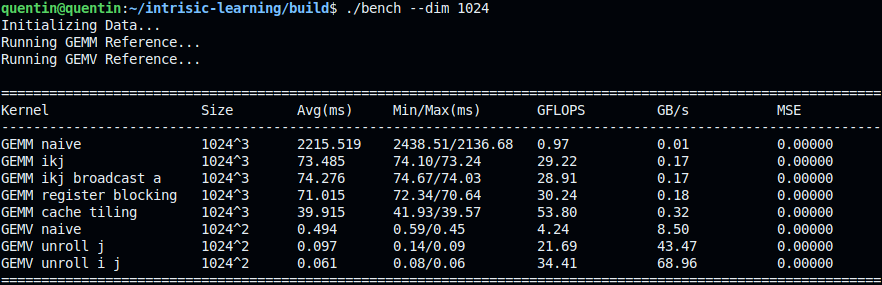
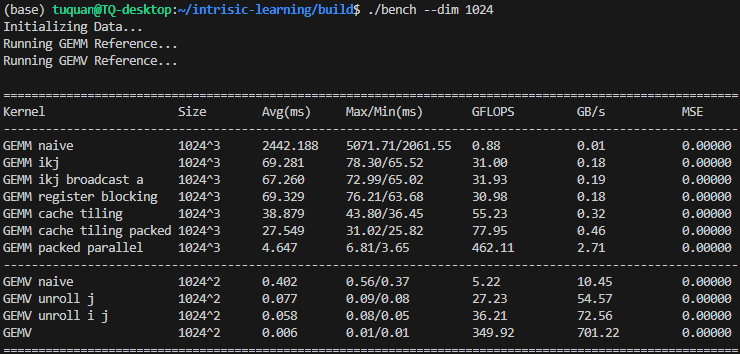
add packed and parallel gemm

Changed region(s): [[0.0, 0.2526, 1.0, 1.0], [0.0, 0.0, 0.6838, 0.2246]]

diff --git a/src/lib/gemm.cpp b/src/lib/gemm.cpp
@@ -3,8 +3,7 @@
 
 #include <immintrin.h>
 
-const int CACHE_TILE_SIZE = 256;
-const int MC = CACHE_TILE_SIZE, NC = CACHE_TILE_SIZE, KC = CACHE_TILE_SIZE;
+const int MC = 256, NC = 64, KC = 256;
 
 void naive_gemm(const Tensor2D &A, const Tensor2D &B, Tensor2D &C)
 {
@@ -312,6 +311,282 @@ void cache_tiling_gemm(const Tensor2D &A, const Tensor2D &B, Tensor2D &C)
     }
 }
 
-void gemm(const Tensor2D &A, const Tensor2D &B, Tensor2D &C)
+void pack_B(int k_min, int k_max, int j_min, int j_max, int B_cols, const float *b_ptr, float *packed_buffer)
 {
+    float *pack_iter = packed_buffer;
+
+    for (int j = j_min; j < j_max; j += 8)
+    {
+        for (int k = k_min; k < k_max; ++k)
+        {
+            const float *b_row_ptr = b_ptr + k * B_cols + j;
+
+            if (j + 8 <= j_max)
+            {
+                _mm256_store_ps(pack_iter, _mm256_loadu_ps(b_row_ptr));
+            }
+            else
+            {
+                for (int n = 0; n < 8; ++n)
+                {
+                    if (j + n < j_max)
+                        pack_iter[n] = b_row_ptr[n];
+                    else
+                        pack_iter[n] = 0.0f;
+                }
+            }
+            pack_iter += 8;
+        }
+    }
+}
+
+void cache_tiling_packed_gemm(const Tensor2D &A, const Tensor2D &B, Tensor2D &C)
+{
+    int A_rows = A.rows();
+    int B_cols = B.cols();
+    int A_cols = A.cols();
+
+    const float *a_ptr = A.data().get();
+    const float *b_ptr = B.data().get();
+    float *c_ptr = C.data().get();
+
+    // shape check
+    if (C.rows() != A_rows || C.cols() != B_cols)
+    {
+        throw std::invalid_argument("C rows and cols must match A rows and B cols, respectively");
+    }
+
+    std::fill(c_ptr, c_ptr + (A_rows * B_cols), 0.0f);
+
+    alignas(32) float packed_B[NC * KC];
+
+    for (int jc = 0; jc < B_cols; jc += NC)
+    {
+        int j_min = std::min(jc + NC, B_cols);
+        for (int kc = 0; kc < A_cols; kc += KC)
+        {
+            int k_min = std::min(kc + KC, A_cols);
+
+            pack_B(kc, k_min, jc, j_min, B_cols, b_ptr, packed_B);
+
+            for (int ic = 0; ic < A_rows; ic += MC)
+            {
+                int i_min = std::min(ic + MC, A_rows);
+
+                int i = ic;
+                for (; i <= i_min - 4; i += 4)
+                {
+                    const float *b_pack_ptr = packed_B;
+
+                    const float *a_row_ptr_0 = &a_ptr[(i + 0) * A_cols];
+                    const float *a_row_ptr_1 = &a_ptr[(i + 1) * A_cols];
+                    const float *a_row_ptr_2 = &a_ptr[(i + 2) * A_cols];
+                    const float *a_row_ptr_3 = &a_ptr[(i + 3) * A_cols];
+
+                    int j = jc;
+                    for (; j <= j_min - 8; j += 8)
+                    {
+                        __m256 acc0 = _mm256_loadu_ps(&c_ptr[(i + 0) * B_cols + j]);
+                        __m256 acc1 = _mm256_loadu_ps(&c_ptr[(i + 1) * B_cols + j]);
+                        __m256 acc2 = _mm256_loadu_ps(&c_ptr[(i + 2) * B_cols + j]);
+                        __m256 acc3 = _mm256_loadu_ps(&c_ptr[(i + 3) * B_cols + j]);
+
+                        for (int k = kc; k < k_min; ++k)
+                        {
+                            __m256 v_a0 = _mm256_set1_ps(a_row_ptr_0[k]);
+                            __m256 v_a1 = _mm256_set1_ps(a_row_ptr_1[k]);
+                            __m256 v_a2 = _mm256_set1_ps(a_row_ptr_2[k]);
+                            __m256 v_a3 = _mm256_set1_ps(a_row_ptr_3[k]);
+
+                            __m256 v_b = _mm256_load_ps(b_pack_ptr);
+                            b_pack_ptr += 8;
+
+                            acc0 = _mm256_fmadd_ps(v_a0, v_b, acc0);
+                            acc1 = _mm256_fmadd_ps(v_a1, v_b, acc1);
+                            acc2 = _mm256_fmadd_ps(v_a2, v_b, acc2);
+                            acc3 = _mm256_fmadd_ps(v_a3, v_b, acc3);
+                        }
+
+                        _mm256_storeu_ps(&c_ptr[(i + 0) * B_cols + j], acc0);
+                        _mm256_storeu_ps(&c_ptr[(i + 1) * B_cols + j], acc1);
+                        _mm256_storeu_ps(&c_ptr[(i + 2) * B_cols + j], acc2);
+                        _mm256_storeu_ps(&c_ptr[(i + 3) * B_cols + j], acc3);
+                    }
+
+                    for (; j < j_min; ++j)
+                    {
+                        float sum0 = 0.0f, sum1 = 0.0f, sum2 = 0.0f, sum3 = 0.0f;
+                        for (int k = kc; k < k_min; ++k)
+                        {
+                            sum0 += a_row_ptr_0[k] * b_ptr[k * B_cols + j];
+                            sum1 += a_row_ptr_1[k] * b_ptr[k * B_cols + j];
+                            sum2 += a_row_ptr_2[k] * b_ptr[k * B_cols + j];
+                            sum3 += a_row_ptr_3[k] * b_ptr[k * B_cols + j];
+                        }
+                        c_ptr[(i + 0) * B_cols + j] += sum0;
+                        c_ptr[(i + 1) * B_cols + j] += sum1;
+                        c_ptr[(i + 2) * B_cols + j] += sum2;
+                        c_ptr[(i + 3) * B_cols + j] += sum3;
+                    }
+                }
+
+                for (; i < i_min; ++i)
+                {
+                    const float *a_row_ptr = &a_ptr[i * A_cols];
+                    const float *b_pack_ptr = packed_B;
+                    float *c_row_ptr = &c_ptr[i * B_cols];
+
+                    int j = jc;
+                    for (; j <= j_min - 8; j += 8)
+                    {
+                        __m256 v_c = _mm256_loadu_ps(&c_row_ptr[j]);
+                        for (int k = kc; k < k_min; ++k)
+                        {
+                            __m256 v_a = _mm256_set1_ps(a_row_ptr[k]);
+                            __m256 v_b = _mm256_load_ps(b_pack_ptr);
+                            b_pack_ptr += 8;
+                            v_c = _mm256_fmadd_ps(v_a, v_b, v_c);
+                        }
+                        _mm256_storeu_ps(&c_row_ptr[j], v_c);
+                    }
+
+                    for (; j < j_min; ++j)
+                    {
+                        float sum = 0.0f;
+                        for (int k = kc; k < k_min; ++k)
+                        {
+                            sum += a_row_ptr[k] * b_ptr[k * B_cols + j];
+                        }
+                        c_row_ptr[j] += sum;
+                    }
+                }
+            }
+        }
+    }
+}
+
+void packed_parallel_gemm(const Tensor2D &A, const Tensor2D &B, Tensor2D &C)
+{
+    int A_rows = A.rows();
+    int B_cols = B.cols();
+    int A_cols = A.cols();
+
+    const float *a_ptr = A.data().get();
+    const float *b_ptr = B.data().get();
+    float *c_ptr = C.data().get();
+
+    // shape check
+    if (C.rows() != A_rows || C.cols() != B_cols)
+    {
+        throw std::invalid_argument("C rows and cols must match A rows and B cols, respectively");
+    }
+
+    std::fill(c_ptr, c_ptr + (A_rows * B_cols), 0.0f);
+
+#pragma omp parallel for
+    for (int jc = 0; jc < B_cols; jc += NC)
+    {
+        alignas(32) float packed_B[NC * KC];
+
+        int j_min = std::min(jc + NC, B_cols);
+        for (int kc = 0; kc < A_cols; kc += KC)
+        {
+            int k_min = std::min(kc + KC, A_cols);
+
+            pack_B(kc, k_min, jc, j_min, B_cols, b_ptr, packed_B);
+
+            for (int ic = 0; ic < A_rows; ic += MC)
+            {
+                int i_min = std::min(ic + MC, A_rows);
+
+                int i = ic;
+                for (; i <= i_min - 4; i += 4)
+                {
+                    const float *b_pack_ptr = packed_B;
+
+                    const float *a_row_ptr_0 = &a_ptr[(i + 0) * A_cols];
+                    const float *a_row_ptr_1 = &a_ptr[(i + 1) * A_cols];
+                    const float *a_row_ptr_2 = &a_ptr[(i + 2) * A_cols];
+                    const float *a_row_ptr_3 = &a_ptr[(i + 3) * A_cols];
+
+                    int j = jc;
+                    for (; j <= j_min - 8; j += 8)
+                    {
+                        __m256 acc0 = _mm256_loadu_ps(&c_ptr[(i + 0) * B_cols + j]);
+                        __m256 acc1 = _mm256_loadu_ps(&c_ptr[(i + 1) * B_cols + j]);
+                        __m256 acc2 = _mm256_loadu_ps(&c_ptr[(i + 2) * B_cols + j]);
+                        __m256 acc3 = _mm256_loadu_ps(&c_ptr[(i + 3) * B_cols + j]);
+
+                        for (int k = kc; k < k_min; ++k)
+                        {
+                            __m256 v_a0 = _mm256_set1_ps(a_row_ptr_0[k]);
+                            __m256 v_a1 = _mm256_set1_ps(a_row_ptr_1[k]);
+                            __m256 v_a2 = _mm256_set1_ps(a_row_ptr_2[k]);
+                            __m256 v_a3 = _mm256_set1_ps(a_row_ptr_3[k]);
+
+                            __m256 v_b = _mm256_load_ps(b_pack_ptr);
+                            b_pack_ptr += 8;
+
+                            acc0 = _mm256_fmadd_ps(v_a0, v_b, acc0);
+                            acc1 = _mm256_fmadd_ps(v_a1, v_b, acc1);
+                            acc2 = _mm256_fmadd_ps(v_a2, v_b, acc2);
+                            acc3 = _mm256_fmadd_ps(v_a3, v_b, acc3);
+                        }
+
+                        _mm256_storeu_ps(&c_ptr[(i + 0) * B_cols + j], acc0);
+                        _mm256_storeu_ps(&c_ptr[(i + 1) * B_cols + j], acc1);
+                        _mm256_storeu_ps(&c_ptr[(i + 2) * B_cols + j], acc2);
+                        _mm256_storeu_ps(&c_ptr[(i + 3) * B_cols + j], acc3);
+                    }
+
+                    for (; j < j_min; ++j)
+                    {
+                        float sum0 = 0.0f, sum1 = 0.0f, sum2 = 0.0f, sum3 = 0.0f;
+                        for (int k = kc; k < k_min; ++k)
+                        {
+                            sum0 += a_row_ptr_0[k] * b_ptr[k * B_cols + j];
+                            sum1 += a_row_ptr_1[k] * b_ptr[k * B_cols + j];
+                            sum2 += a_row_ptr_2[k] * b_ptr[k * B_cols + j];
+                            sum3 += a_row_ptr_3[k] * b_ptr[k * B_cols + j];
+                        }
+                        c_ptr[(i + 0) * B_cols + j] += sum0;
+                        c_ptr[(i + 1) * B_cols + j] += sum1;
+                        c_ptr[(i + 2) * B_cols + j] += sum2;
+                        c_ptr[(i + 3) * B_cols + j] += sum3;
+                    }
+                }
+
+                for (; i < i_min; ++i)
+                {
+                    const float *a_row_ptr = &a_ptr[i * A_cols];
+                    const float *b_pack_ptr = packed_B;
+                    float *c_row_ptr = &c_ptr[i * B_cols];
+
+                    int j = jc;
+                    for (; j <= j_min - 8; j += 8)
+                    {
+                        __m256 v_c = _mm256_loadu_ps(&c_row_ptr[j]);
+                        for (int k = kc; k < k_min; ++k)
+                        {
+                            __m256 v_a = _mm256_set1_ps(a_row_ptr[k]);
+                            __m256 v_b = _mm256_load_ps(b_pack_ptr);
+                            b_pack_ptr += 8;
+                            v_c = _mm256_fmadd_ps(v_a, v_b, v_c);
+                        }
+                        _mm256_storeu_ps(&c_row_ptr[j], v_c);
+                    }
+
+                    for (; j < j_min; ++j)
+                    {
+                        float sum = 0.0f;
+                        for (int k = kc; k < k_min; ++k)
+                        {
+                            sum += a_row_ptr[k] * b_ptr[k * B_cols + j];
+                        }
+                        c_row_ptr[j] += sum;
+                    }
+                }
+            }
+        }
+    }
 }

diff --git a/src/main.cpp b/src/main.cpp
@@ -43,23 +43,26 @@ int main(int argc, char **argv)
 
     auto gemm_load = Workload::gemm_f32(M, N, K);
 
-    // results.push_back(run_benchmark("GEMM naive", dim, "gemm",
-    //                                 naive_gemm, gemm_load.first, gemm_load.second, C_ref, C_out, A, B));
+    results.push_back(run_benchmark("GEMM naive", dim, "gemm",
+                                    naive_gemm, gemm_load.first, gemm_load.second, C_ref, C_out, A, B));
 
-    // results.push_back(run_benchmark("GEMM ikj", dim, "gemm",
-    //                                 ikj_gemm, gemm_load.first, gemm_load.second, C_ref, C_out, A, B));
+    results.push_back(run_benchmark("GEMM ikj", dim, "gemm",
+                                    ikj_gemm, gemm_load.first, gemm_load.second, C_ref, C_out, A, B));
 
-    // results.push_back(run_benchmark("GEMM ikj broadcast a", dim, "gemm",
-    //                                 ikj_broadcast_a_gemm, gemm_load.first, gemm_load.second, C_ref, C_out, A, B));
+    results.push_back(run_benchmark("GEMM ikj broadcast a", dim, "gemm",
+                                    ikj_broadcast_a_gemm, gemm_load.first, gemm_load.second, C_ref, C_out, A, B));
 
-    // results.push_back(run_benchmark("GEMM register blocking", dim, "gemm",
-    //                                 register_blocking_gemm, gemm_load.first, gemm_load.second, C_ref, C_out, A, B));
+    results.push_back(run_benchmark("GEMM register blocking", dim, "gemm",
+                                    register_blocking_gemm, gemm_load.first, gemm_load.second, C_ref, C_out, A, B));
 
-    // results.push_back(run_benchmark("GEMM cache tiling", dim, "gemm",
-    //                                 cache_tiling_gemm, gemm_load.first, gemm_load.second, C_ref, C_out, A, B));
+    results.push_back(run_benchmark("GEMM cache tiling", dim, "gemm",
+                                    cache_tiling_gemm, gemm_load.first, gemm_load.second, C_ref, C_out, A, B));
 
-    results.push_back(run_benchmark("GEMM", dim, "gemm",
-                                    gemm, gemm_load.first, gemm_load.second, C_ref, C_out, A, B));
+    results.push_back(run_benchmark("GEMM cache tiling packed", dim, "gemm",
+                                    cache_tiling_packed_gemm, gemm_load.first, gemm_load.second, C_ref, C_out, A, B));
+
+    results.push_back(run_benchmark("GEMM packed parallel", dim, "gemm",
+                                    packed_parallel_gemm, gemm_load.first, gemm_load.second, C_ref, C_out, A, B));
 
     // GEMV
     std::cout << "Running GEMV Reference..." << std::endl;
@@ -74,14 +77,14 @@ int main(int argc, char **argv)
 
     auto gemv_load = Workload::gemv_f32(M, N);
 
-    // results.push_back(run_benchmark("GEMV naive", dim, "gemv",
-    //                                 naive_gemv, gemv_load.first, gemv_load.second, y_ref, y_out, W, x));
+    results.push_back(run_benchmark("GEMV naive", dim, "gemv",
+                                    naive_gemv, gemv_load.first, gemv_load.second, y_ref, y_out, W, x));
 
-    // results.push_back(run_benchmark("GEMV unroll j", dim, "gemv",
-    //                                 unroll_j_gemv, gemv_load.first, gemv_load.second, y_ref, y_out, W, x));
+    results.push_back(run_benchmark("GEMV unroll j", dim, "gemv",
+                                    unroll_j_gemv, gemv_load.first, gemv_load.second, y_ref, y_out, W, x));
 
-    // results.push_back(run_benchmark("GEMV unroll i j", dim, "gemv",
-    //                                 unroll_i_j_gemv, gemv_load.first, gemv_load.second, y_ref, y_out, W, x));
+    results.push_back(run_benchmark("GEMV unroll i j", dim, "gemv",
+                                    unroll_i_j_gemv, gemv_load.first, gemv_load.second, y_ref, y_out, W, x));
 
     results.push_back(run_benchmark("GEMV", dim, "gemv",
                                     gemv, gemv_load.first, gemv_load.second, y_ref, y_out, W, x));

diff --git a/src/lib/gemm.h b/src/lib/gemm.h
@@ -7,4 +7,5 @@ void ikj_gemm(const Tensor2D &A, const Tensor2D &B, Tensor2D &C);
 void ikj_broadcast_a_gemm(const Tensor2D &A, const Tensor2D &B, Tensor2D &C);
 void register_blocking_gemm(const Tensor2D &A, const Tensor2D &B, Tensor2D &C);
 void cache_tiling_gemm(const Tensor2D &A, const Tensor2D &B, Tensor2D &C);
-void gemm(const Tensor2D &A, const Tensor2D &B, Tensor2D &C);
+void cache_tiling_packed_gemm(const Tensor2D &A, const Tensor2D &B, Tensor2D &C);
+void packed_parallel_gemm(const Tensor2D &A, const Tensor2D &B, Tensor2D &C);

diff --git a/src/bench/bench.cpp b/src/bench/bench.cpp
@@ -33,7 +33,7 @@ void print_report(const std::vector<BenchmarkResult> &results)
               << std::setw(25) << "Kernel"
               << std::setw(12) << "Size"
               << std::setw(12) << "Avg(ms)"
-              << std::setw(18) << "Min/Max(ms)"
+              << std::setw(18) << "Max/Min(ms)"
               << std::setw(15) << "GFLOPS"
               << std::setw(15) << "GB/s"
               << std::setw(12) << "MSE" << "\n";

diff --git a/doc/lib/gemm.md b/doc/lib/gemm.md
@@ -16,5 +16,7 @@
 5. cache_tiling_gemm:
 - The register_blocking_gemm still accesses `B` across the `k` dimension from widely separated memory locations, causing cache lines to be evicted before they can be reused
 - Add 3 outer loops to separate `C` as tiles, and use the register blocking code for each tile
-6. gemm:
-- Add `#pragma once parallel for`
+6. cache_tiling_packed_gemm:
+- This implementation deals with the `B` access jumping problem by packing `B` would-be accessed elements in a contiguous layout
+7. packed_parallel_gemm:
+- Add parallelism to the `cache_tiling_packed_gemm`, each thread will operate on its own packed buffer

diff --git a/README.md b/README.md
@@ -1,4 +1,4 @@
-A project where i learn intrisic stuffs, currently AVX2.
+A project where i learn intrinsic stuffs, currently AVX2.
 
 #### How to use
 - I haven't add flags for MSVC yet, so run on WSL or Linux for now
@@ -13,5 +13,5 @@ cmake --build .
 ```
 
 #### Result
-- The following result is from running benchmark on an i5-12400
+- The following result is from running benchmark on an i5-14500
 ![benchmark](asset/benchmark.png)
